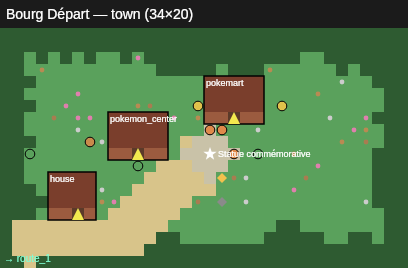
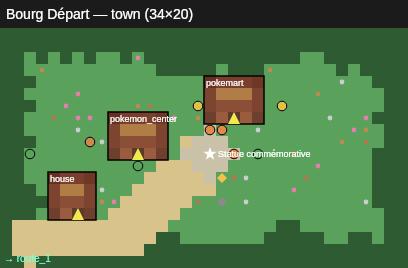
Buildings: real roof/wall/base tile composition instead of uniform fill

diff --git a/src/generator/buildings.ts b/src/generator/buildings.ts
@@ -18,6 +18,37 @@ const FOOTPRINT: Record<string, { w: number; h: number; label: string }> = {
   lab: { w: 5, h: 4, label: "Laboratoire" },
 };
 
+/**
+ * Peint un vrai motif de composition (toit / corps / base), pas un
+ * remplissage uniforme — chaque rôle structurel a sa tuile sémantique
+ * dédiée. La porte n'est pas posée ici : l'appelant écrase ensuite UNE
+ * tuile wall_base_mid au centre de la ligne de base par "door".
+ */
+function paintBuildingTiles(terrain: string[][], x0: number, y0: number, w: number, h: number): void {
+  for (let dy = 0; dy < h; dy++) {
+    const y = y0 + dy;
+    const isRoof = dy === 0;
+    const isBase = dy === h - 1;
+    const isFirstCorpsRow = dy === 1;
+    for (let dx = 0; dx < w; dx++) {
+      const x = x0 + dx;
+      const isLeft = dx === 0;
+      const isRight = dx === w - 1;
+      let tile: string;
+      if (isRoof) {
+        tile = isLeft ? "roof_corner_left" : isRight ? "roof_corner_right" : "roof_top";
+      } else if (isBase) {
+        tile = isLeft ? "wall_base_left" : isRight ? "wall_base_right" : "wall_base_mid";
+      } else {
+        // Corps : bords toujours nets, mais la première ligne "fenêtre" et
+        // les suivantes "pleines" pour éviter un motif trop répétitif.
+        tile = isLeft ? "wall_edge_left" : isRight ? "wall_edge_right" : isFirstCorpsRow ? "wall_window" : "wall_plain";
+      }
+      terrain[y][x] = tile;
+    }
+  }
+}
+
 export interface BuildingsResult {
   buildings: Building[];
   interiorMaps: GameMap[];
@@ -111,12 +142,10 @@ export function placeBuildings(
     buildingIndex++;
     const buildingId = `${mapId}_b${buildingIndex}_${type}`;
 
+    paintBuildingTiles(terrain, spot.x, spot.y, footprint.w, footprint.h);
     for (let dy = 0; dy < footprint.h; dy++) {
       for (let dx = 0; dx < footprint.w; dx++) {
-        const x = spot.x + dx;
-        const y = spot.y + dy;
-        terrain[y][x] = dy === footprint.h - 1 ? "building_wall" : "building_roof";
-        occupied.add(`${x},${y}`);
+        occupied.add(`${spot.x + dx},${spot.y + dy}`);
       }
     }
     const entrance: Point = { x: spot.x + Math.floor(footprint.w / 2), y: spot.y + footprint.h - 1 };
